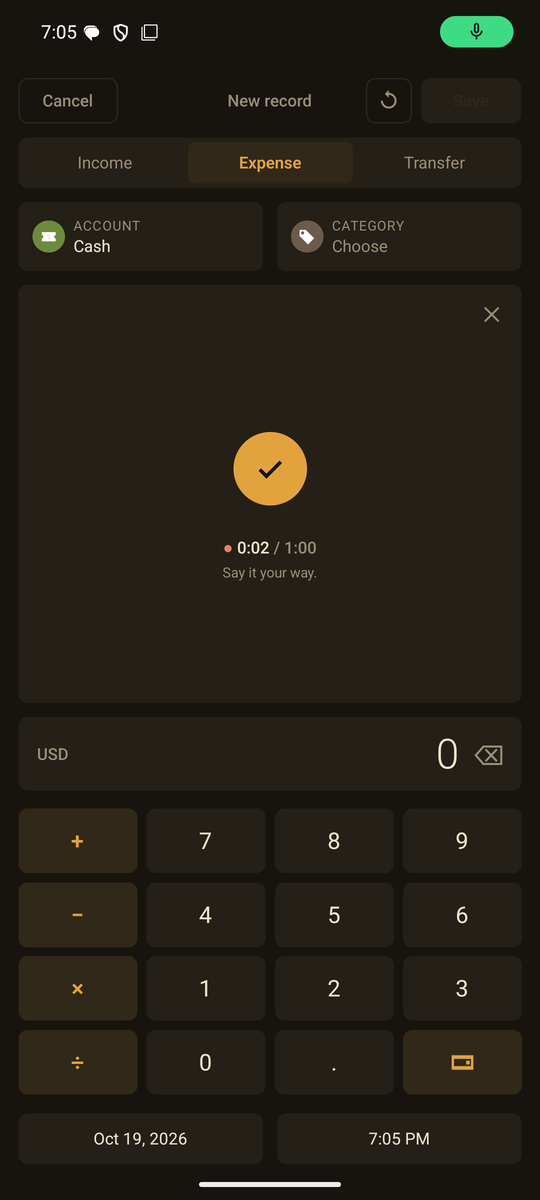
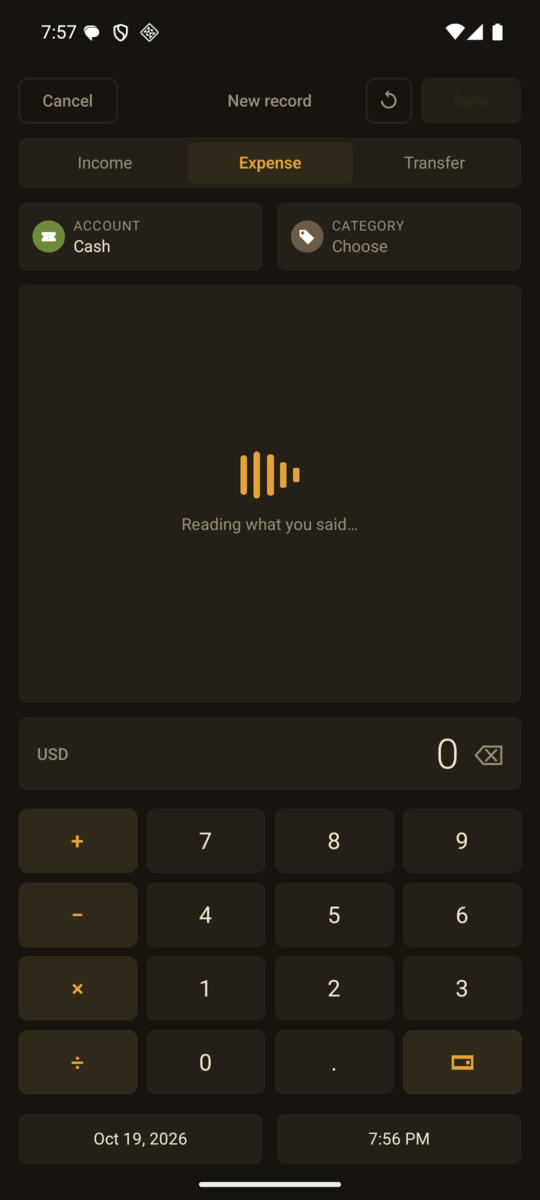
docs(store): voice shot while it reads; Budgets back in place of Accounts
Claude-Session: https://claude.ai/code/session_01GJ7172XEDGrJsMjZivFNAd

diff --git a/site/lib/store-graphics.tsx b/site/lib/store-graphics.tsx
@@ -117,6 +117,12 @@ export const STORE_SHOTS: StoreShot[] = [
     subtitle: 'Your balance and budget at a glance, and a spend added in one tap.',
   },
   {
+    shot: 'budgets',
+    title: 'Know what',
+    highlight: 'is left.',
+    subtitle: 'A budget per category, with the room you still have this month.',
+  },
+  {
     shot: 'analysis',
     title: 'See where',
     highlight: 'it went.',
@@ -127,12 +133,6 @@ export const STORE_SHOTS: StoreShot[] = [
     title: 'Ask about',
     highlight: 'your money.',
     subtitle: 'Penny answers from your own ledger, every figure taken from your records.',
-  },
-  {
-    shot: 'accounts',
-    title: 'Every account,',
-    highlight: 'adding up.',
-    subtitle: 'Cash, bank and cards — and a card reads as what you owe.',
   },
   {
     shot: 'welcome',

diff --git a/store/README.md b/store/README.md
@@ -23,8 +23,15 @@ the same pull request as the app it describes.
    is screenshot 3 and the site's "On the home screen" section. Nothing but the wallpaper and the
    arrangement is drawn — the widgets are the real renders.
 3. `PEACE_GEMINI_KEY_FILE=<file> npm run shots:penny` — **costs money**, a handful of Gemini
-   requests — writes `penny-ask.png` (screenshot 6) and `voice.png` (screenshot 3, the mic listening;
-   it needs a key to be offered, but the clip is cancelled, never sent).
+   requests — writes `penny-ask.png` (screenshot 7) and `voice.png` (screenshot 3, the bars moving
+   while a clip is read). The voice capture needs SOUND in the emulator's mic, and the headless AVD has
+   none: it boots with `-no-audio`, and without a window it cannot open PulseAudio at all ("Could not
+   init `pa' audio driver"). Use the WINDOWED emulator with `-allow-host-audio` and
+   `adb emu avd hostmicon`, and give it something to hear — a tone looping into a PulseAudio null
+   sink works without a microphone, but PipeWire may route the emulator's input elsewhere, so check
+   `pw-link -l` while it records and link `peace_mic:monitor_*` to `qemu-system-x86_64:input_*`.
+   Without sound Peace refuses the silent clip, the flow skips the capture, and the previous
+   `voice.png` is kept.
 4. Build the site (`cd site && npm run build`). The store graphics land in `site/out/store/`, and a
    merge to `main` publishes them.
 
